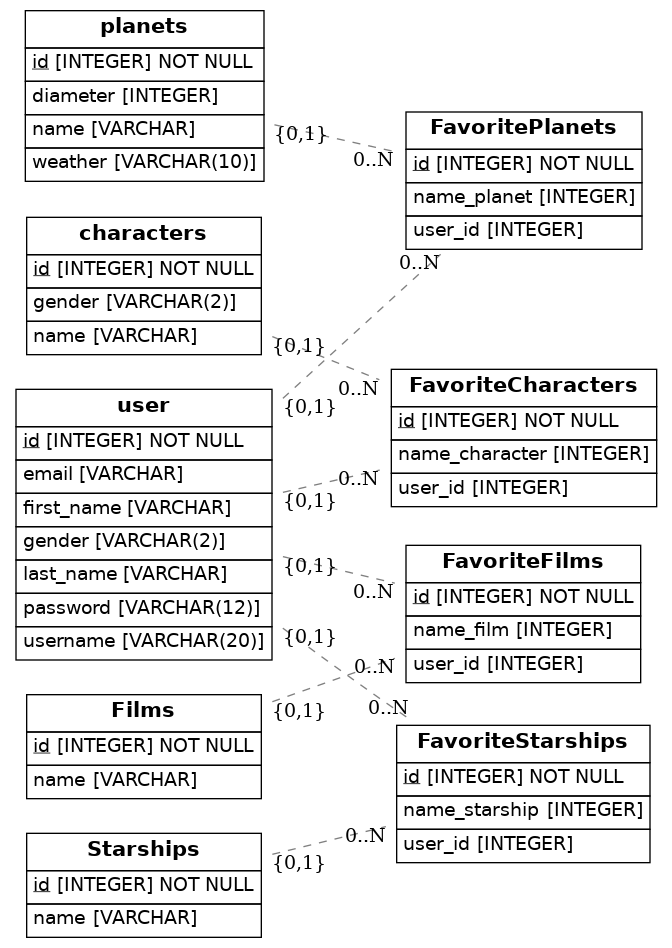
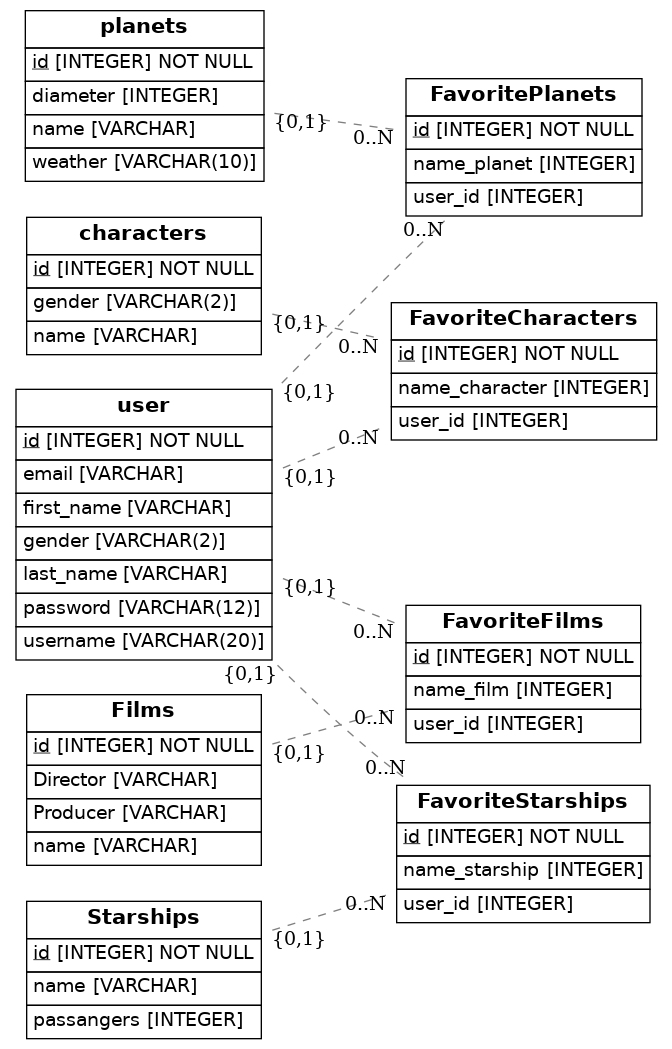
starwarsdatabase

diff --git a/src/models.py b/src/models.py
@@ -77,6 +77,8 @@ class Film(Base):
     __tablename__ = 'Films'
     id = Column(Integer, primary_key=True)
     name = Column(String)
+    Director = Column(String)
+    Producer = Column(String)
 
 class FavoriteFilms(Base):
     __tablename__ = 'FavoriteFilms'
